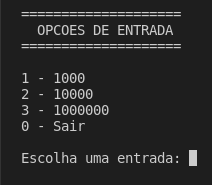
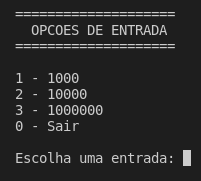
att new images

diff --git a/README.md b/README.md
@@ -9,17 +9,11 @@ Comparacao das estruturas tipo arvore
 
 ## Menu
 
-![Scrennshot](src/img/a.png)
-
-![Scrennshot](src/img/teste.png)
-
-![Scrennshot](src/img/c.png)
-
-<!-- ![Scrennshot](src/img/menu-opcao-principal.png)
+![Scrennshot](src/img/menu-opcao-principal.png)
 
 ![Scrennshot](src/img/menu-opcao-entrada.png)
 
-![Scrennshot](src/img/menu-opcao-pesquisa.png) -->
+![Scrennshot](src/img/menu-opcao-pesquisa.png)
 
 - opcao 1
 
